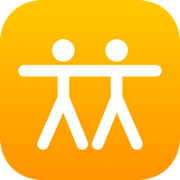
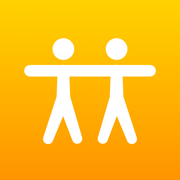
De-box the results screen, and redraw the mark from extents not coordinates
Layout. Content is no longer a card. The border, background, shadow and radius
came off .trav, .timeline, .notice, .banner, .icon-btn, .gear, .opts, .filters,
.shift and .qm-pop, which are now plain text on the page separated by hairlines
and space. The nesting -- a card inside a card inside a <details> -- is gone. A
notice is a left rule rather than a panel, because a rule carries the same
severity without claiming to be an object. The only surviving card is .party on
the "who's coming" step, which is genuinely a group of editable fields. Added a
spacing scale (--s1..--s7) so vertical rhythm stops being 10/14/18/20/28 by eye.

The per-person Book button is now secondary: outlined, not filled. Five
full-width amber buttons on one screen meant none of them was primary. It still
reads as a button, because booking is the thing the app exists to hand you, just
not as the loudest thing on the page. The tinted band behind it went with the
card frame it used to sit in.

.hop-prem is now its own grid item spanning the row instead of a child of the
fare column, where it inherited white-space: nowrap, forced that column to
~220px and wrapped "ORD -> PIT" onto three lines.

A group label inside .pills was flex item one, so "Landing time" ate half a row
and pushed options onto a second line. It now gets its own line.

Landing time moved onto the results screen, into Adjust the search. It was only
on the "when" step, which is before anybody has seen a plan -- and the window is
[…]

diff --git a/index.html b/index.html
@@ -11,7 +11,8 @@
 <meta property="og:description" content="Three or more people, three or more cities, one destination. Land together.">
 <meta property="og:image" content="og.png">
 <meta name="theme-color" content="#0b0a08">
-<link rel="icon" type="image/png" href="favicon.png">
+<link rel="icon" type="image/png" href="favicon.png" sizes="64x64">
+<link rel="icon" type="image/svg+xml" href="favicon.svg">
 <link rel="apple-touch-icon" href="apple-touch-icon.png">
 <link rel="manifest" href="manifest.json">
 <meta name="apple-mobile-web-app-capable" content="yes">
@@ -69,6 +70,7 @@
 
 :root {
     --r-sm: 8px; --r-md: 12px; --r-lg: 16px; --r-pill: 999px;
+    --s1: 4px; --s2: 8px; --s3: 12px; --s4: 16px; --s5: 24px; --s6: 32px; --s7: 48px;
     --ease: cubic-bezier(.2,.8,.2,1);
 
     /* No webfont. The audience is iPhone, so the system face is SF Pro:
@@ -158,7 +160,8 @@ a { color: var(--accent); }
 .brand-left { display: flex; align-items: center; gap: 12px; min-width: 0; }
 .brand-mark { width: 34px; height: 34px; border-radius: var(--r-sm); flex-shrink: 0; display: block; }
 .brand-name { font-size: var(--t-4); font-weight: 600; letter-spacing: var(--tr-4); white-space: nowrap; }
-.gear { position: relative; width: 36px; height: 36px; border-radius: var(--r-pill); display: grid; place-items: center; flex-shrink: 0; border: 1px solid var(--edge); background: var(--card); box-shadow: var(--lift); transition: border-color .15s, transform .12s var(--ease); }
+.gear { position: relative; width: 44px; height: 44px; margin-right: -11px; border-radius: var(--r-pill);
+    display: grid; place-items: center; flex-shrink: 0; transition: transform .12s var(--ease); }
 .gear::after { content: ''; position: absolute; top: 50%; left: 50%; width: 44px; height: 44px; transform: translate(-50%, -50%); }
 .gear svg { width: 16px; height: 16px; display: block; }
 .gear:active { transform: scale(.94); }
@@ -174,7 +177,8 @@ a { color: var(--accent); }
 .rail .lbl { font-size: var(--t-2); color: var(--faint); white-space: nowrap; margin-left: 4px; font-weight: 500; }
 
 /* ---------------- notices ---------------- */
-.notice { border-radius: var(--r-md); padding: 12px 16px; margin-bottom: 12px; font-size: var(--t-3); line-height: var(--lh-text); border: 1px solid var(--edge); background: var(--card); }
+.notice { padding: 2px 0 2px var(--s3); margin-bottom: var(--s4); font-size: var(--t-2);
+    line-height: var(--lh-text); border-left: 2px solid var(--edge); }
 .notice.warn { border-color: var(--warn); color: var(--warn); }
 .notice.bad { border-color: var(--bad); color: var(--bad); }
 .notice b { font-weight: 600; }
@@ -325,8 +329,9 @@ section { animation: stepIn .2s var(--ease); }
 .nav .btn.primary { flex: 1 1 auto; }
 
 /* ---------------- results ---------------- */
-.res-head { display: flex; align-items: center; gap: 12px; margin-bottom: 16px; }
-.icon-btn { width: 44px; height: 44px; flex-shrink: 0; border-radius: var(--r-md); border: 1px solid var(--edge); background: var(--card); box-shadow: var(--lift); display: grid; place-items: center; font-size: var(--t-4); transition: transform .12s var(--ease), border-color .15s; }
+.res-head { display: flex; align-items: center; gap: var(--s2); margin-bottom: var(--s5); }
+.icon-btn { width: 44px; height: 44px; margin-left: -11px; flex-shrink: 0; border-radius: var(--r-pill);
+    display: grid; place-items: center; font-size: var(--t-4); transition: transform .12s var(--ease); }
 .icon-btn:active { transform: scale(.97); }
 .res-title { min-width: 0; }
 .res-title .t { font-size: var(--t-4); font-weight: 600; letter-spacing: var(--tr-4); }
@@ -343,9 +348,9 @@ section { animation: stepIn .2s var(--ease); }
 .dot.fresh-old { background: var(--bad); box-shadow: 0 0 0 3px rgba(255,138,114,.16); }
 .dot.fresh-sample { background: var(--edge-2); }
 
-.shifts { margin-top: 24px; }
+.shifts { margin-top: var(--s5); border-top: 1px solid var(--edge); padding-top: var(--s4); }
 .shifts > .k { display: block; margin-bottom: 10px; }
-.shift { display: flex; align-items: baseline; justify-content: space-between; gap: 12px; padding: 12px 16px; border: 1px solid var(--edge); border-radius: var(--r-md); background: var(--card); margin-bottom: 8px; }
+.shift { display: flex; align-items: baseline; justify-content: space-between; gap: var(--s3); padding: var(--s3) 0; }
 .shift.here { border-color: var(--brand); background: var(--accent-dim); }
 .shift.best { border-color: var(--good); }
 .s-d { font-size: var(--t-3); font-weight: 500; }
@@ -390,13 +395,13 @@ section { animation: stepIn .2s var(--ease); }
 .win-note .more { color: var(--accent); font-weight: 600; }
 .linkish { font: inherit; color: var(--accent); font-weight: 600; border-bottom: 1px solid var(--accent-dim); padding: 2px 0; }
 
-.trav { border: 1px solid var(--edge); border-radius: var(--r-md); background: var(--card); box-shadow: var(--lift); margin-bottom: 12px; overflow: hidden; }
+.trav { border-top: 1px solid var(--edge); padding: var(--s4) 0 var(--s2); }
 .trav.apart { border-color: var(--bad); border-style: dashed; }
-.trav-top { display: grid; grid-template-columns: 34px 1fr auto; gap: 12px; align-items: center; padding: 14px 16px 10px; }
+.trav-top { display: grid; grid-template-columns: 34px 1fr auto; gap: var(--s3); align-items: center; }
 .trav-name { font-size: var(--t-4); font-weight: 600; display: flex; align-items: center; gap: 8px; flex-wrap: wrap; }
 .trav-tot { font-size: var(--t-5); font-weight: 600; letter-spacing: var(--tr-5); text-align: right; }
 .trav-tot span { display: block; font-size: var(--t-2); font-weight: 400; color: var(--muted); margin-top: 2px; }
-.hop { display: grid; grid-template-columns: 34px 24px 1fr auto; gap: 12px; align-items: center; padding: 10px 16px; border-top: 1px solid var(--edge); }
+.hop { display: grid; grid-template-columns: 34px 24px 1fr auto; gap: var(--s3); align-items: center; padding: var(--s2) 0; }
 .hop-dir { font-size: var(--t-2); font-weight: 400; color: var(--faint); }
 .hop-main { min-width: 0; }
 /* An airport pair is one token; it must not break across the arrow. */
@@ -410,16 +415,23 @@ section { animation: stepIn .2s var(--ease); }
 .hop-cost { font-size: var(--t-2); color: var(--muted); margin-top: 3px; }
 /* This had no rule at all, so it inherited 16px from the body and nowrap from
    .hop-right and ran straight out of the card. */
-.hop-prem { font-size: var(--t-2); line-height: var(--lh-snug); color: var(--muted); margin-top: 3px; white-space: normal; }
-.trav-book { padding: 12px 16px 14px; border-top: 1px solid var(--edge); background: var(--card-2); }
-.trav-book .btn { width: 100%; }
+.hop-prem { grid-column: 3 / -1; font-size: var(--t-2); line-height: var(--lh-snug);
+    color: var(--muted); margin-top: 2px; white-space: normal; text-align: right; }
+/* No band: the card frame it used to sit inside is gone. And the per-person
+ * button is secondary, because five full-width amber buttons on one screen
+ * meant none of them was the primary action. Booking still reads as a button --
+ * it is the thing the app exists to hand you -- just not as the loudest one. */
+.trav-book { padding: var(--s3) 0 var(--s1); }
+.trav-book .btn { width: 100%; background: transparent; color: var(--accent);
+    border: 1px solid var(--brand); box-shadow: none; }
+.trav-book .btn:active { background: var(--accent-dim); }
 .trav-book .fine { font-size: var(--t-2); color: var(--muted); margin-top: 8px; line-height: var(--lh-text); text-align: center; }
-.opts { margin-top: 16px; border: 1px solid var(--edge); border-radius: var(--r-md); background: var(--card); }
-.opts > summary { padding: 14px 16px; font-size: var(--t-3); font-weight: 500; color: var(--muted); cursor: pointer; list-style: none; }
+.opts { margin-top: var(--s5); border-top: 1px solid var(--edge); }
+.opts > summary { padding: var(--s4) 0; font-size: var(--t-3); font-weight: 500; color: var(--muted); cursor: pointer; list-style: none; }
 .opts > summary::-webkit-details-marker { display: none; }
 .opts > summary::after { content: ' ▾'; color: var(--faint); }
 .opts[open] > summary::after { content: ' ▴'; }
-.opts > .filters, .opts > .board { margin: 0 12px 12px; border-radius: var(--r-sm); }
+.opts > .filters { margin: 0; }
 .leg-head { display: flex; align-items: baseline; gap: 10px; flex-wrap: wrap; margin-bottom: 14px; padding-bottom: 10px; border-bottom: 1px solid var(--edge); }
 .leg-head h2 { font-size: var(--t-5); font-weight: 600; letter-spacing: var(--tr-5); }
 .leg-head .when { font-size: var(--t-2); color: var(--muted); font-variant-numeric: tabular-nums; }
@@ -460,7 +472,7 @@ section { animation: stepIn .2s var(--ease); }
 .pills { display: flex; gap: 8px; flex-wrap: wrap; align-items: center; }
 .pill { min-height: 44px; background: var(--card); border: 1px solid var(--edge); color: var(--muted); border-radius: var(--r-pill); padding: 8px 16px; font-size: var(--t-3); font-weight: 500; transition: background .15s, border-color .15s, color .15s; }
 .pill.on { border-color: var(--brand); color: var(--accent); background: var(--accent-dim); }
-.pills .k { margin-right: 4px; }
+.pills > .k { flex: 1 0 100%; margin: 0 0 var(--s2); }
 
 /* Locked feature: readable, clearly not tappable, and not greyed out so far
  * that it reads as broken. */
@@ -492,8 +504,8 @@ section { animation: stepIn .2s var(--ease); }
     font-size: var(--t-3); font-weight: 600; line-height: 1; }
 .alli-g .qm[aria-expanded="true"] { color: var(--accent); background: var(--accent-dim); }
 .pill.alli-b.clear { margin-left: auto; color: var(--accent); border-color: var(--brand); }
-.qm-pop { margin-top: 10px; padding: 12px 14px; border: 1px solid var(--edge);
-    border-radius: var(--r-md); background: var(--bg); font-size: var(--t-2); line-height: var(--lh-text); }
+.qm-pop { margin-top: var(--s3); padding: 0 0 0 var(--s3); border-left: 2px solid var(--edge);
+    font-size: var(--t-2); line-height: var(--lh-text); }
 .qm-pop > b { display: block; margin-bottom: 8px; font-size: var(--t-3); font-weight: 600; }
 .qm-list { display: flex; flex-wrap: wrap; gap: 4px 10px; color: var(--muted); }
 .qm-list span { white-space: nowrap; }
@@ -502,7 +514,8 @@ section { animation: stepIn .2s var(--ease); }
 .qm-list span.here { color: var(--text); font-weight: 600; }
 .qm-f { margin-top: 9px; font-size: var(--t-2); color: var(--muted); opacity: .85; }
 
-.filters { background: var(--card); border: 1px solid var(--edge); border-radius: var(--r-md); padding: 16px; margin-bottom: 16px; box-shadow: var(--lift); }
+.filters { padding: 0 0 var(--s5); }
+.filters > * + * { margin-top: var(--s5); }
 .row2 { display: flex; align-items: center; gap: 8px; }
 .row2 .inp { flex: 1 1 0; min-width: 0; }
 .row2 .sep { font-size: var(--t-2); color: var(--muted); flex-shrink: 0; }
@@ -535,13 +548,13 @@ section { animation: stepIn .2s var(--ease); }
 .plan-head .t { font-size: var(--t-5); font-weight: 600; letter-spacing: var(--tr-5); }
 .plan-head .s { font-size: var(--t-2); color: var(--muted); }
 
-.timeline { position: relative; height: 108px; margin-bottom: 16px; border: 1px solid var(--edge); border-radius: var(--r-md); background: var(--card); overflow: hidden; }
+.timeline { position: relative; height: 100px; margin-bottom: var(--s4); overflow: hidden; }
 .tl-band { position: absolute; top: 0; bottom: 0; background: var(--accent-dim); }
 .tl-axis { position: absolute; left: 0; right: 0; top: 56px; height: 1px; background: var(--edge); }
 .tl-mark { position: absolute; top: 36px; transform: translateX(-50%); text-align: center; }
 /* rtl so the earliest arrival paints on top, like an iOS facepile */
 .tl-dots { display: flex; justify-content: center; direction: rtl; }
-.tl-dot { position: relative; direction: ltr; width: 24px; height: 24px; border-radius: var(--r-pill); display: grid; place-items: center; font-size: var(--t-1); font-weight: 600; color: var(--brand-ink); box-shadow: 0 0 0 2px var(--card); }
+.tl-dot { position: relative; direction: ltr; width: 24px; height: 24px; border-radius: var(--r-pill); display: grid; place-items: center; font-size: var(--t-1); font-weight: 600; color: var(--brand-ink); box-shadow: 0 0 0 2px var(--bg); }
 .tl-dots .tl-dot + .tl-dot { margin-right: -8px; }
 .tl-t { font-size: var(--t-1); line-height: 1; color: var(--muted); margin-top: 8px; white-space: nowrap; }
 .tl-t.alt { margin-top: 20px; }
@@ -622,11 +635,12 @@ section { animation: stepIn .2s var(--ease); }
 .about-body p { margin-bottom: 12px; }
 .about-body strong { color: var(--text); }
 
-footer { margin-top: 32px; padding-top: 20px; border-top: 1px solid var(--edge); text-align: center; font-size: var(--t-2); color: var(--faint); line-height: 2; }
+footer { margin-top: var(--s7); padding-top: var(--s5); border-top: 1px solid var(--edge); text-align: center; font-size: var(--t-2); color: var(--faint); line-height: 2; }
 footer button { font-family: inherit; font-size: var(--t-2); color: var(--muted); border-bottom: 1px solid var(--edge-2); padding: 14px 10px; display: inline-block; }
 footer .sep { color: var(--edge-2); margin: 0 8px; }
 
-.banner { margin: 12px 20px 0; padding: 12px 16px; border-radius: var(--r-md); border: 1px solid var(--brand); background: var(--accent-dim); font-size: var(--t-3); line-height: var(--lh-text); position: relative; max-width: 640px; }
+.banner { margin: var(--s3) 20px 0; padding: 2px 44px 2px var(--s3); border-left: 2px solid var(--brand);
+    font-size: var(--t-2); line-height: var(--lh-text); position: relative; max-width: 640px; }
 .banner b { color: var(--accent); }
 .banner .x { position: absolute; top: 0; right: 0; width: 44px; height: 44px; color: var(--muted); font-size: var(--t-5); }
 
@@ -678,15 +692,18 @@ footer .sep { color: var(--edge-2); margin: 0 8px; }
              icon-512.png, scaled; keep the two in step if either changes. -->
         <svg class="brand-mark" viewBox="0 0 512 512" aria-hidden="true">
             <defs><linearGradient id="bg1" x1="0" y1="0" x2="0" y2="1">
-                <stop offset="0" stop-color="#FFC800"/><stop offset="1" stop-color="#FF9400"/>
+                <stop offset="0" stop-color="#FFD200"/><stop offset="0.18" stop-color="#FFC800"/><stop offset="1" stop-color="#FF9400"/>
             </linearGradient></defs>
             <rect width="512" height="512" rx="114" fill="url(#bg1)"/>
-            <g fill="none" stroke="#fff" stroke-width="33" stroke-linecap="round" stroke-linejoin="round">
-                <circle cx="180" cy="143" r="32" fill="#fff" stroke="none"/>
-                <circle cx="332" cy="143" r="32" fill="#fff" stroke="none"/>
-                <path d="M68 201 H444"/>
-                <path d="M180 201 V278 M180 278 L122 410 M180 278 L234 410"/>
-                <path d="M332 201 V278 M332 278 L278 410 M332 278 L390 410"/>
+            <g fill="#fff">
+                <circle cx="180" cy="139" r="31"/><circle cx="332" cy="139" r="31"/>
+                <rect x="68" y="184.5" width="376" height="33" rx="16.5"/>
+                <path d="M163.5 200.4 L160.5 277.2 A19.5 19.5 0 1 0 199.5 277.2 L196.5 200.4 A16.5 16.5 0 0 0 163.5 200.4 Z"/>
+                <path d="M161.5 272.0 L122.7 391.0 A14.5 14.5 0 0 0 149.9 401.1 L198.0 285.5 A19.5 19.5 0 1 0 161.5 272.0 Z"/>
+                <path d="M161.8 285.0 L206.0 400.7 A14.5 14.5 0 0 0 233.4 391.4 L198.7 272.5 A19.5 19.5 0 1 0 161.8 285.0 Z"/>
+                <path d="M315.5 200.4 L312.5 277.2 A19.5 19.5 0 1 0 351.5 277.2 L348.5 200.4 A16.5 16.5 0 0 0 315.5 200.4 Z"/>
+                <path d="M314.0 285.5 L362.1 401.1 A14.5 14.5 0 0 0 389.3 391.0 L350.5 272.0 A19.5 19.5 0 1 0 314.0 285.5 Z"/>
+                <path d="M313.3 272.5 L278.6 391.4 A14.5 14.5 0 0 0 306.0 400.7 L350.2 285.0 A19.5 19.5 0 1 0 313.3 272.5 Z"/>
             </g>
         </svg>
         <h1 class="brand-name">Fly with Friends</h1>
@@ -798,6 +815,7 @@ footer .sep { color: var(--edge-2); margin: 0 8px; }
         <details class="opts" id="adjust">
             <summary>Adjust the search</summary>
             <div class="filters">
+                <div class="pills" id="bandPills"></div>
                 <div class="pills" id="stopPills"></div>
                 <div class="pills airlines" id="airlinePills"></div>
             </div>

diff --git a/app.js b/app.js
@@ -1150,17 +1150,35 @@ function presetFor(band) {
     return 'exact';
 }
 
-function renderBandPresets() {
-    var host = el('sBandPre');
-    if (!host) return;
-    var cur = presetFor(state.q.band.outbound);
-    host.innerHTML = BAND_PRESETS.map(function (x) {
+function bandPresetHtml(cur, withExact) {
+    return BAND_PRESETS.map(function (x) {
         var on = cur === x.k;
         return '<button class="pill' + (on ? ' on' : '') + '" role="radio" aria-checked="' + on
             + '" data-bpre="' + x.k + '">' + esc(x.l) + '</button>';
     }).join('')
-        + '<button class="pill' + (cur === 'exact' ? ' on' : '') + '" role="radio"'
-        + ' aria-checked="' + (cur === 'exact') + '" data-bpre="exact">Exact times</button>';
+        + (withExact
+            ? '<button class="pill' + (cur === 'exact' ? ' on' : '') + '" role="radio"'
+              + ' aria-checked="' + (cur === 'exact') + '" data-bpre="exact">Exact times</button>'
+            : '');
+}
+
+function renderBandPresets() {
+    var cur = presetFor(state.q.band.outbound);
+
+    /* Also on the results screen, where you can see the plan you are
+     * constraining. The click handler sets the step-2 inputs, which are in the
+     * DOM on every step, so one handler serves both copies. The exact-time
+     * pickers stay on the step that has room for them. */
+    var res = el('bandPills');
+    if (res) {
+        res.setAttribute('role', 'radiogroup');
+        res.setAttribute('aria-label', 'Landing time');
+        res.innerHTML = '<span class="k">Landing time</span>' + bandPresetHtml(cur, false);
+    }
+
+    var host = el('sBandPre');
+    if (!host) return;
+    host.innerHTML = bandPresetHtml(cur, true);
     /* Once revealed the pickers stay put, so typing a time never makes the
      * field you are editing disappear under you. */
     var box = el('sBandExact');
@@ -1181,6 +1199,7 @@ function renderStepStops() {
 
 function renderStopPills() {
     renderAirlinePills();
+    renderBandPresets();
     var o = [{ v: 0, l: 'Nonstop' }, { v: 1, l: 'Up to 1 stop' }, { v: null, l: 'Any' }];
     el('stopPills').setAttribute('role', 'radiogroup');
     el('stopPills').setAttribute('aria-label', 'Maximum stops');
@@ -1770,14 +1789,19 @@ function hopRow(dir, r, leg, id, seats) {
         + (leg === 'outbound' ? 'lands ' : 'leaves ') + clock(showMin) + '</div>'
         + '<div class="hop-cost mono">' + money(r.cost)
         + (seats > 1 ? ' <span class="for-seats">for ' + seats + '</span>' : '')
-        + '</div>'
+        + '</div></div>'
         /* This number was previously a bare orange "+$16" beside the fare, which
          * reads as a fee to add on. It is not: it is already inside the fare.
-         * A tester added it to their own total for every traveller. */
+         * A tester added it to their own total for every traveller.
+         *
+         * It sits OUTSIDE .hop-right, as its own grid item spanning the row. In
+         * the fare column it inherited white-space: nowrap, forced that column
+         * to ~220px and wrapped "ORD -> PIT" onto three lines -- and it had no
+         * CSS rule at all, so it rendered at body size over the route. */
         + (r.premium > 0
             ? '<div class="hop-prem">incl. ' + money(r.premium) + ' to land together</div>'
             : '')
-        + '</div></div>';
+        + '</div>';
 }
 
 function travellerCard(id, i) {
@@ -2655,6 +2679,9 @@ function applyStepBand() {
     state.q.band.outbound = { from: el('sFrom').value, to: el('sTo').value };
     renderBandPresets();
     thReset();
+    /* Changing the window from the results screen has to repaint the plan it is
+     * filtering, which the step-2 copy never needed to do. */
+    if (state.step === 4) { writeHash(); render(); }
 }
 document.addEventListener('click', function (ev) {
     var n = ev.target.closest && ev.target.closest('[data-bpre]');
